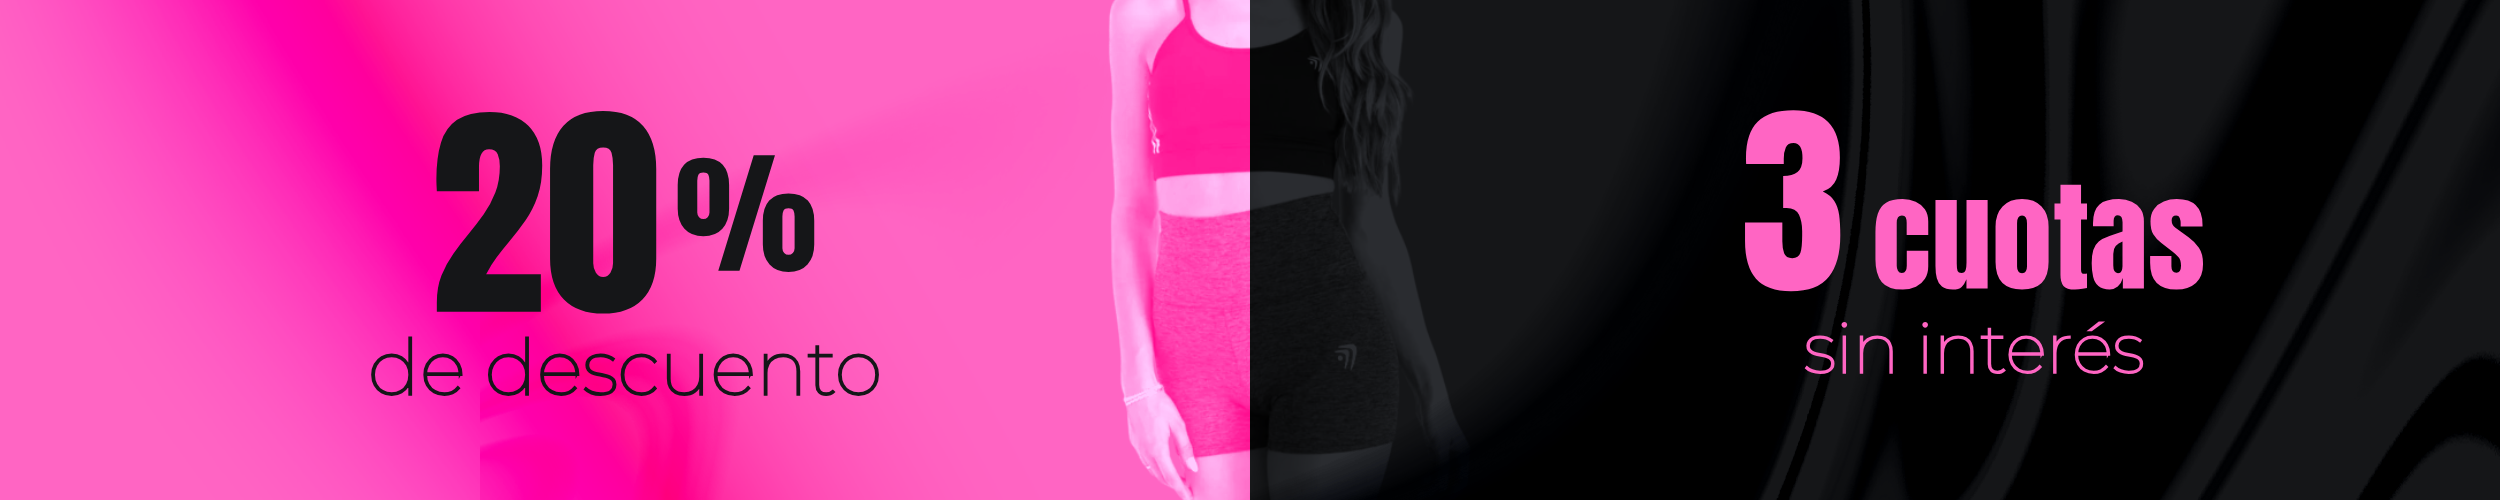
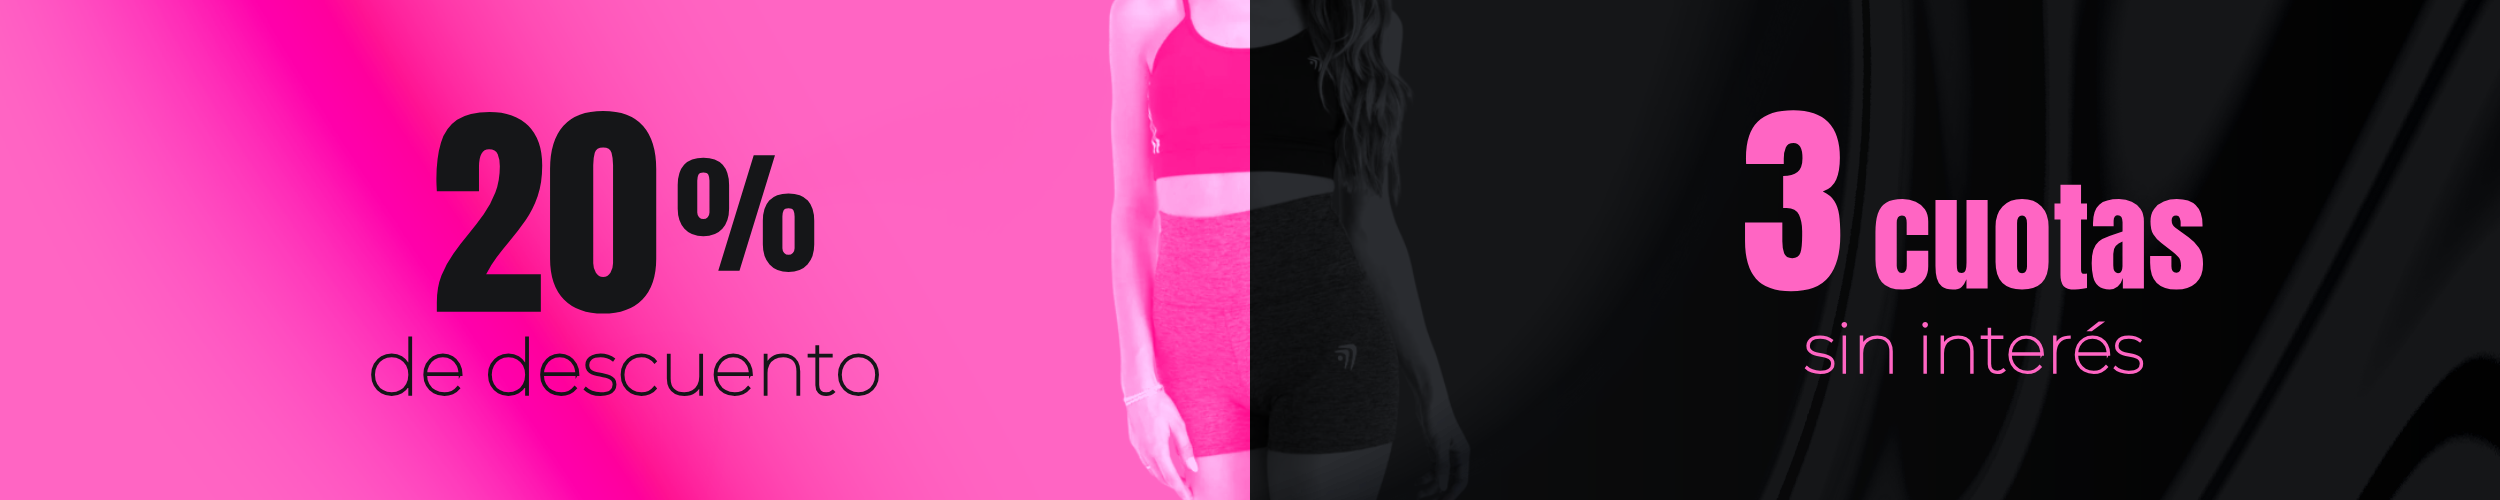
23-4-2026 2

Changed region(s): [[0.2184, 0.72, 0.2808, 0.99], [0.1872, 0.87, 0.2184, 1.0]]

diff --git a/style.css b/style.css
@@ -186,6 +186,26 @@ h6 {
 	max-height: 70px;
 }
 
+#logo {
+	mask-image: linear-gradient(45deg,
+			rgba(0, 0, 0, 0.8) 30%,
+			transparent 50%,
+			rgba(0, 0, 0, 0.8) 70%);
+	mask-size: 200% 200%;
+
+	animation: shine 1.5s cubic-bezier(0.22, 1, 0.36, 1.19) forwards;
+
+}
+
+@keyframes shine {
+  0% {
+    mask-position: 150% 0;
+  }
+  100% {
+    mask-position: -80% 0;
+  }
+}
+
 .head-light .form-control {
 	border: none;
 	transition-duration: 0ms;
@@ -286,61 +306,77 @@ svg[title="Tiendanube"] {
 	transition: all 0.6s cubic-bezier(0.22, 1, 0.36, 1.19);
 }
 
-.item-product.show{
-  opacity: 1;
-  transform: none;
+.item-product.show {
+	opacity: 1;
+	transform: none;
 }
 
-.item-name{
+.item-name {
 	text-align: start;
 }
 
-[data-store="filters-group"] [data-filter-name="Color"] .checkbox{
+[data-store="filters-group"] [data-filter-name="Color"] .checkbox {
 	width: fit-content;
 }
 
-.payment-discount-price-product-container{
-	text-align: start;	
-}
-
-.payment-discount-price-product-container span{
-	font-weight: 300;
-}
-
-.payment-discount-price-product-container span.payment-discount-price-product{
-	font-weight: bold;
-}
-
-.item-price-container{
+.payment-discount-price-product-container {
 	text-align: start;
 }
 
-.js-promotional-banner-container{
+.payment-discount-price-product-container span {
+	font-weight: 300;
+}
+
+.payment-discount-price-product-container span.payment-discount-price-product {
+	font-weight: bold;
+}
+
+.item-price-container {
+	text-align: start;
+}
+
+.js-promotional-banner-container {
 	margin: 0;
 	padding: 0;
 	flex: unset;
 	max-width: none;
 }
 
-.textbanner{
+.textbanner {
 	margin: 0;
 }
 
-.textbanner:hover, .textbanner:focus{
+.textbanner:hover,
+.textbanner:focus {
 	scale: unset;
 }
 
-.textbanner-image{
+.textbanner-image {
 	padding: 0;
 	display: flex;
 	justify-content: center;
 }
 
-.textbanner-image-background{
+.textbanner-image-background {
 	width: 100%;
 	position: unset;
 }
 
-.textbanner-text.over-image{
+.textbanner-text.over-image {
 	display: none;
+}
+
+
+
+.fancybox__content {
+	background-color: white !important;
+}
+
+
+.nav-list-link {
+	padding: 0;
+}
+
+.nav-list-link:hover {
+	color: #e91e8c !important;
 }

diff --git a/script.html b/script.html
@@ -15,7 +15,7 @@
       interval = setInterval(() => {
         document.title = titles[i % titles.length];
         i++;
-      }, 1500);
+      }, 4500);
     }
   };
 
@@ -138,8 +138,16 @@
     });
 
     const rowBanner= document.querySelector('.row:has(.textbanner)')
-
     rowBanner.style.justifyContent = 'center';
+
+    const bannerImage = document.querySelector('.textbanner-image-background')
+    bannerImage.src = "https://lukasaldivia.github.io/flex-fitness-wear/banner.png"
+    bannerImage.srcset = "https://lukasaldivia.github.io/flex-fitness-wear/banner.png"
+
+    // Deleting dataset attributes to prevent conflicts with the script
+
+    bannerImage.removeAttribute('data-src');
+    bannerImage.removeAttribute('data-srcset');
 
   });
 
